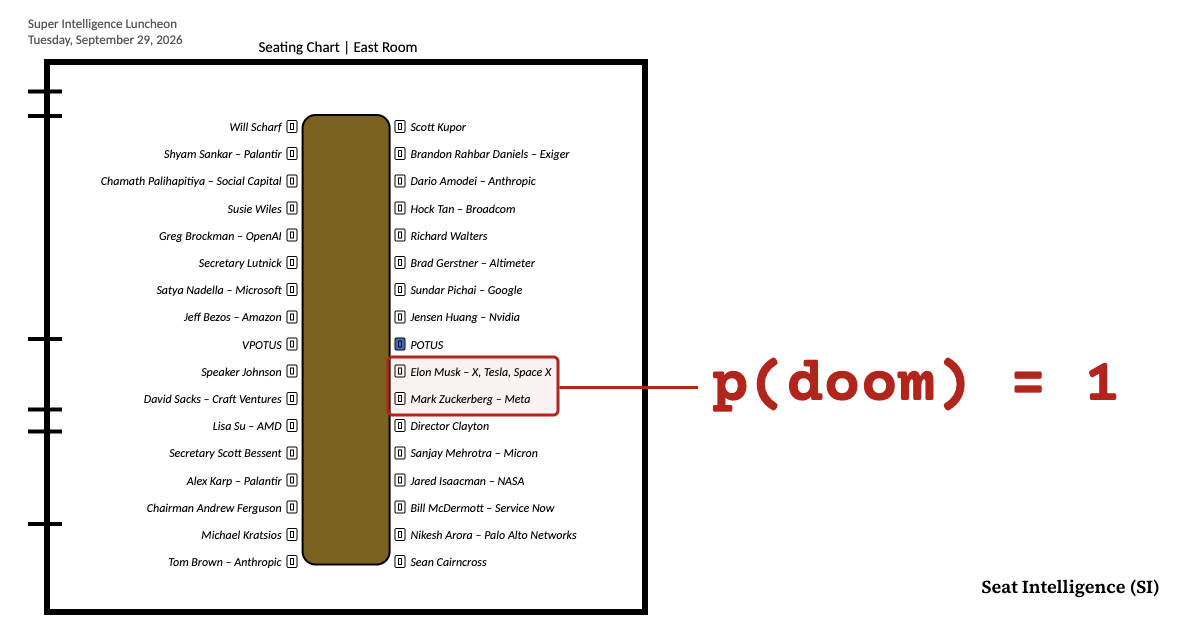
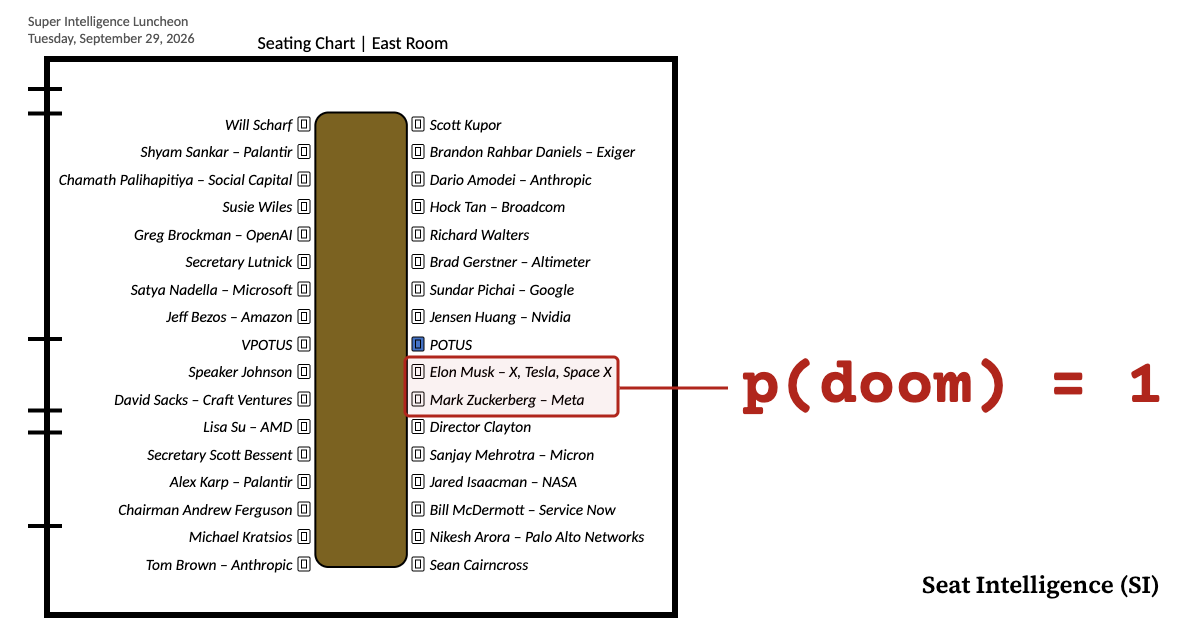
Demo: chart-style chairs, credit links; link the Hugging Face model

diff --git a/demo/luncheon/index.html b/demo/luncheon/index.html
@@ -186,6 +186,13 @@
     .nav { left:auto; right:14px; }
     .toast { left:calc(min(42vw, 540px) + (100vw - min(42vw, 540px)) / 2); }
   }
+
+  /* made-by credit, bottom right of the chart on desktop; inside the How it works sheet on phones */
+  .credit { position:absolute; right:14px; bottom:calc(12px + env(safe-area-inset-bottom, 0px)); font:13px/1.2 var(--text); color:var(--mute); display:flex; gap:10px; align-items:baseline; background:rgba(251,251,249,.9); padding:4px 6px; }
+  .credit a { color:var(--ink); }
+  @media (min-width:900px) { .nav { bottom:calc(46px + env(safe-area-inset-bottom, 0px)); } }
+  @media (max-width:899px) { .credit { display:none; } }
+  body.card .credit { display:none !important; }
 </style>
 </head>
 <body>
@@ -196,6 +203,7 @@
   <div class="over" id="over" hidden role="alertdialog" aria-label="Game over"><div class="over-in"><p class="pd">p(doom) = 1</p><p>The AI apocalypse began somewhere between the soup and the main course.</p><div class="row"><button class="btn primary" type="button" id="retry">Try again</button><button class="btn" type="button" id="showai">Show me the program’s answer</button></div></div></div>
   <div class="toast" id="toast" role="status" aria-live="polite"></div>
   <section id="cap" aria-label="Story"></section>
+  <nav class="credit" aria-label="Made by">by Theo Hopkinson <a href="https://github.com/ho3h" target="_blank" rel="noopener">GitHub</a><a href="https://www.linkedin.com/in/theohopkinson/" target="_blank" rel="noopener">LinkedIn</a><a href="https://x.com/theohopkinson" target="_blank" rel="noopener">X</a></nav>
   <div id="cardtext" hidden></div>
 </div>
 <div id="sheet" hidden role="dialog" aria-modal="true" aria-label="How it works"><div class="sheet-in"><button class="btn small" type="button" id="sheetclose">Close</button><div id="sheetbody"></div></div></div>
@@ -570,12 +578,19 @@ var DATA = {"guests": [{"name": "Will Scharf", "org": null, "category": "unlabel
 
   // ---------- drawing
   function rr(x, y, w, h, r) { ctx.beginPath(); ctx.moveTo(x + r, y); ctx.arcTo(x + w, y, x + w, y + h, r); ctx.arcTo(x + w, y + h, x, y + h, r); ctx.arcTo(x, y + h, x, y, r); ctx.arcTo(x, y, x + w, y, r); ctx.closePath(); }
+  // the posted chart's chair icon: a light D-shaped seat, a backrest line and two small arm tabs on the table side, mirrored per side
   function chair(x, side, y, hi, detail) {
-    ctx.fillStyle = hi ? INK : "#fff"; ctx.strokeStyle = INK;
-    if (!detail) { ctx.lineWidth = 2.2; ctx.fillRect(x - 10, y - 12, 20, 24); ctx.strokeRect(x - 10, y - 12, 20, 24); return; }
-    ctx.lineWidth = 1.5; rr(x - 11, y - 13, 22, 26, 3); ctx.fill(); ctx.stroke(); ctx.strokeRect(x - 6, y - 8, 12, 16);
-    ctx.lineWidth = 3.2; ctx.beginPath(); var bx = x + side * 10; ctx.moveTo(bx, y - 12); ctx.lineTo(bx, y + 12); ctx.stroke();
+    ctx.strokeStyle = INK;
+    if (!detail) { ctx.fillStyle = hi ? INK : "#fff"; ctx.lineWidth = 1.6; ctx.fillRect(x - 8, y - 10, 16, 20); ctx.strokeRect(x - 8, y - 10, 16, 20); return; }
+    ctx.save(); ctx.translate(x, y); ctx.scale(side, 1);
+    ctx.lineWidth = 1.15; ctx.fillStyle = hi ? INK : "#fff";
+    ctx.beginPath(); ctx.moveTo(-6, -10); ctx.lineTo(2, -10); ctx.arcTo(9, -10, 9, -3, 6); ctx.lineTo(9, 3); ctx.arcTo(9, 10, 2, 10, 6); ctx.lineTo(-6, 10); ctx.closePath(); ctx.fill(); ctx.stroke();
+    ctx.beginPath(); ctx.moveTo(-2.5, -8); ctx.lineTo(-2.5, 8); ctx.stroke();
+    ctx.fillStyle = "#fff"; ctx.fillRect(-9.5, -12, 5, 4); ctx.strokeRect(-9.5, -12, 5, 4); ctx.fillRect(-9.5, 8, 5, 4); ctx.strokeRect(-9.5, 8, 5, 4);
+    ctx.restore();
   }
+
+
   var hatch = null;
   function hatchPattern() {
     if (hatch) return hatch;
@@ -1014,7 +1029,7 @@ var DATA = {"guests": [{"name": "Will Scharf", "org": null, "category": "unlabel
       "<li><b>Mistakes were in the planning, not the details.</b> So we built checked building blocks and let the AI choose and combine them.</li>" +
       "<li><b>That made a tiny AI work.</b> Writing whole programs, a small AI got about 1 in 7 tasks right. Choosing from checked building blocks, it got nearly all right when the wording was familiar, and 4 to 8 in 10 when it wasn’t.</li></ul>" +
       "<h2>What runs on this page</h2><p>The seating program runs live in your browser. It is a JavaScript copy of our checked program, tested to give identical answers on 400 random cases and every recorded example.</p><p>The tiny AI does not run in your browser. Its readings of these sentences were recorded on a laptop beforehand. The chatbot’s answers are its real answers from our test. The name words are new: avoid is now one of the checked building blocks, and pair is handled before the blocks run.</p>";
-  function aboutHTML() { return ABOUT + '<h2>The code</h2><p>Everything is open: the tiny model, the seating program, the test sets, and every experiment that worked or didn\u2019t, with the write-ups. <a href="https://github.com/ho3h/seat-intelligence" target="_blank" rel="noopener">github.com/ho3h/seat-intelligence</a></p></div>'; }
+  function aboutHTML() { return ABOUT + '<h2>The code</h2><p>Everything is open: the tiny model, the seating program, the test sets, and every experiment that worked or didn\u2019t, with the write-ups. <a href="https://github.com/ho3h/seat-intelligence" target="_blank" rel="noopener">github.com/ho3h/seat-intelligence</a></p><p class="fine">Made by Theo Hopkinson: <a href="https://github.com/ho3h" target="_blank" rel="noopener">GitHub</a>, <a href="https://www.linkedin.com/in/theohopkinson/" target="_blank" rel="noopener">LinkedIn</a>, <a href="https://x.com/theohopkinson" target="_blank" rel="noopener">X</a>.</p></div>'; }
   // ---------- loop
   var liveT = 0;
   function frameLoop(now) {

diff --git a/demo/luncheon/app.js b/demo/luncheon/app.js
@@ -149,12 +149,19 @@
 
   // ---------- drawing
   function rr(x, y, w, h, r) { ctx.beginPath(); ctx.moveTo(x + r, y); ctx.arcTo(x + w, y, x + w, y + h, r); ctx.arcTo(x + w, y + h, x, y + h, r); ctx.arcTo(x, y + h, x, y, r); ctx.arcTo(x, y, x + w, y, r); ctx.closePath(); }
+  // the posted chart's chair icon: a light D-shaped seat, a backrest line and two small arm tabs on the table side, mirrored per side
   function chair(x, side, y, hi, detail) {
-    ctx.fillStyle = hi ? INK : "#fff"; ctx.strokeStyle = INK;
-    if (!detail) { ctx.lineWidth = 2.2; ctx.fillRect(x - 10, y - 12, 20, 24); ctx.strokeRect(x - 10, y - 12, 20, 24); return; }
-    ctx.lineWidth = 1.5; rr(x - 11, y - 13, 22, 26, 3); ctx.fill(); ctx.stroke(); ctx.strokeRect(x - 6, y - 8, 12, 16);
-    ctx.lineWidth = 3.2; ctx.beginPath(); var bx = x + side * 10; ctx.moveTo(bx, y - 12); ctx.lineTo(bx, y + 12); ctx.stroke();
+    ctx.strokeStyle = INK;
+    if (!detail) { ctx.fillStyle = hi ? INK : "#fff"; ctx.lineWidth = 1.6; ctx.fillRect(x - 8, y - 10, 16, 20); ctx.strokeRect(x - 8, y - 10, 16, 20); return; }
+    ctx.save(); ctx.translate(x, y); ctx.scale(side, 1);
+    ctx.lineWidth = 1.15; ctx.fillStyle = hi ? INK : "#fff";
+    ctx.beginPath(); ctx.moveTo(-6, -10); ctx.lineTo(2, -10); ctx.arcTo(9, -10, 9, -3, 6); ctx.lineTo(9, 3); ctx.arcTo(9, 10, 2, 10, 6); ctx.lineTo(-6, 10); ctx.closePath(); ctx.fill(); ctx.stroke();
+    ctx.beginPath(); ctx.moveTo(-2.5, -8); ctx.lineTo(-2.5, 8); ctx.stroke();
+    ctx.fillStyle = "#fff"; ctx.fillRect(-9.5, -12, 5, 4); ctx.strokeRect(-9.5, -12, 5, 4); ctx.fillRect(-9.5, 8, 5, 4); ctx.strokeRect(-9.5, 8, 5, 4);
+    ctx.restore();
   }
+
+
   var hatch = null;
   function hatchPattern() {
     if (hatch) return hatch;
@@ -593,7 +600,7 @@
       "<li><b>Mistakes were in the planning, not the details.</b> So we built checked building blocks and let the AI choose and combine them.</li>" +
       "<li><b>That made a tiny AI work.</b> Writing whole programs, a small AI got about 1 in 7 tasks right. Choosing from checked building blocks, it got nearly all right when the wording was familiar, and 4 to 8 in 10 when it wasn’t.</li></ul>" +
       "<h2>What runs on this page</h2><p>The seating program runs live in your browser. It is a JavaScript copy of our checked program, tested to give identical answers on 400 random cases and every recorded example.</p><p>The tiny AI does not run in your browser. Its readings of these sentences were recorded on a laptop beforehand. The chatbot’s answers are its real answers from our test. The name words are new: avoid is now one of the checked building blocks, and pair is handled before the blocks run.</p>";
-  function aboutHTML() { return ABOUT + '<h2>The code</h2><p>Everything is open: the tiny model, the seating program, the test sets, and every experiment that worked or didn\u2019t, with the write-ups. <a href="https://github.com/ho3h/seat-intelligence" target="_blank" rel="noopener">github.com/ho3h/seat-intelligence</a></p></div>'; }
+  function aboutHTML() { return ABOUT + '<h2>The code</h2><p>Everything is open: the tiny model, the seating program, the test sets, and every experiment that worked or didn\u2019t, with the write-ups. <a href="https://github.com/ho3h/seat-intelligence" target="_blank" rel="noopener">github.com/ho3h/seat-intelligence</a></p><p class="fine">Made by Theo Hopkinson: <a href="https://github.com/ho3h" target="_blank" rel="noopener">GitHub</a>, <a href="https://www.linkedin.com/in/theohopkinson/" target="_blank" rel="noopener">LinkedIn</a>, <a href="https://x.com/theohopkinson" target="_blank" rel="noopener">X</a>.</p></div>'; }
   // ---------- loop
   var liveT = 0;
   function frameLoop(now) {

diff --git a/demo/luncheon/card2.html b/demo/luncheon/card2.html
@@ -10,14 +10,14 @@
   * { box-sizing:border-box; }
   html,body { margin:0; height:100%; background:var(--paper); color:var(--ink); overflow:hidden; }
   .chart { position:absolute; font-family:var(--chart); }
-  .hdr { position:absolute; left:0; top:0; font-size:13px; color:#555; line-height:1.25; }
-  .title { position:absolute; top:22px; width:100%; text-align:center; font-size:15px; }
+  .hdr { position:absolute; left:0; top:0; font-size:14px; color:#555; line-height:1.25; }
+  .title { position:absolute; top:20px; width:100%; text-align:center; font-size:18px; }
   .room { position:absolute; left:16px; right:0; top:44px; bottom:0; border:6px solid var(--ink); }
   .tick { position:absolute; left:-22px; width:34px; height:4px; background:var(--ink); }
   .table { position:absolute; left:50%; transform:translateX(-50%); width:15%; top:9%; bottom:8%; background:var(--table); border:2px solid var(--ink); border-radius:14px; }
   .seat { position:absolute; display:flex; align-items:center; gap:5px; font-style:italic; font-size:12px; white-space:nowrap; }
   .seat.l { flex-direction:row-reverse; }
-  .chair { width:11px; height:13px; border:1.4px solid var(--ink); border-radius:2px; background:#fff; position:relative; flex:none; }
+  .chair { width:13px; height:15px; border:1.4px solid var(--ink); border-radius:2px; background:#fff; position:relative; flex:none; }
   .chair::after { content:""; position:absolute; inset:2px 2.5px; border:1px solid var(--ink); }
   .chair.potus { background:#4472c4; }
   .flash { position:absolute; border:3px solid var(--red); border-radius:6px; background:rgba(176,38,28,.06); }
@@ -41,11 +41,11 @@
   var zi = seats.findIndex(function (s) { return s.name === "Mark Zuckerberg"; }), pi = seats.findIndex(function (s) { return s.name === "Sundar Pichai"; });
   var tmp = seats[zi].row; seats[zi].row = seats[pi].row; seats[pi].row = tmp;
   var chart = document.getElementById("chart"), room = document.getElementById("room");
-  var cw = SQ ? 860 : 620, ch = SQ ? 1050 : 600;
+  var cw = SQ ? 900 : 650, ch = SQ ? 1050 : 606;
   chart.style.width = cw + "px"; chart.style.height = ch + "px";
   chart.style.left = (SQ ? (W - cw) / 2 : 28) + "px"; chart.style.top = (SQ ? 40 : (H - ch) / 2) + "px";
   if (SQ) { document.querySelector(".hdr").style.fontSize = "18px"; document.querySelector(".title").style.fontSize = "22px"; document.querySelector(".title").style.top = "34px"; room.style.top = "68px"; }
-  var rw = room.clientWidth, rh = room.clientHeight, top = rh * 0.115, pitch = (rh * 0.80) / 16, fs = SQ ? 18 : 12;
+  var rw = room.clientWidth, rh = room.clientHeight, top = rh * 0.115, pitch = (rh * 0.80) / 16, fs = SQ ? 20 : 15.5;
   [0.045, 0.09, 0.5, 0.63, 0.67, 0.84].forEach(function (f) { var t = document.createElement("div"); t.className = "tick"; t.style.top = (f * rh) + "px"; room.appendChild(t); });
   var musk, zuck;
   seats.forEach(function (s) {
@@ -71,9 +71,9 @@
     mark.style.right = "64px"; mark.style.bottom = "40px"; mark.style.fontSize = "24px";
     lead.style.display = "none";
   } else {
-    var px = 712; pd.style.fontSize = "62px"; pd.style.left = px + "px"; pd.style.top = (fr.top + fr.height / 2 - 31) + "px";
+    var px = 742; pd.style.fontSize = "64px"; pd.style.left = px + "px"; pd.style.top = (fr.top + fr.height / 2 - 31) + "px";
     var x0 = fr.right, y0 = fr.top + fr.height / 2; lead.style.left = x0 + "px"; lead.style.top = y0 + "px"; lead.style.width = (px - x0 - 14) + "px";
-    mark.style.right = "40px"; mark.style.bottom = "34px";
+    mark.style.right = "40px"; mark.style.bottom = "34px"; mark.style.fontSize = "24px";
   }
 })();
 </script>

diff --git a/demo/luncheon/template.html b/demo/luncheon/template.html
@@ -186,6 +186,13 @@
     .nav { left:auto; right:14px; }
     .toast { left:calc(min(42vw, 540px) + (100vw - min(42vw, 540px)) / 2); }
   }
+
+  /* made-by credit, bottom right of the chart on desktop; inside the How it works sheet on phones */
+  .credit { position:absolute; right:14px; bottom:calc(12px + env(safe-area-inset-bottom, 0px)); font:13px/1.2 var(--text); color:var(--mute); display:flex; gap:10px; align-items:baseline; background:rgba(251,251,249,.9); padding:4px 6px; }
+  .credit a { color:var(--ink); }
+  @media (min-width:900px) { .nav { bottom:calc(46px + env(safe-area-inset-bottom, 0px)); } }
+  @media (max-width:899px) { .credit { display:none; } }
+  body.card .credit { display:none !important; }
 </style>
 </head>
 <body>
@@ -196,6 +203,7 @@
   <div class="over" id="over" hidden role="alertdialog" aria-label="Game over"><div class="over-in"><p class="pd">p(doom) = 1</p><p>The AI apocalypse began somewhere between the soup and the main course.</p><div class="row"><button class="btn primary" type="button" id="retry">Try again</button><button class="btn" type="button" id="showai">Show me the program’s answer</button></div></div></div>
   <div class="toast" id="toast" role="status" aria-live="polite"></div>
   <section id="cap" aria-label="Story"></section>
+  <nav class="credit" aria-label="Made by">by Theo Hopkinson <a href="https://github.com/ho3h" target="_blank" rel="noopener">GitHub</a><a href="https://www.linkedin.com/in/theohopkinson/" target="_blank" rel="noopener">LinkedIn</a><a href="https://x.com/theohopkinson" target="_blank" rel="noopener">X</a></nav>
   <div id="cardtext" hidden></div>
 </div>
 <div id="sheet" hidden role="dialog" aria-modal="true" aria-label="How it works"><div class="sheet-in"><button class="btn small" type="button" id="sheetclose">Close</button><div id="sheetbody"></div></div></div>

diff --git a/README.md b/README.md
@@ -1,6 +1,6 @@
 # Seat Intelligence
 
-**Play it:** [seat-intelligence.com](https://seat-intelligence.com). I trained a tiny model to stop AI leaders from causing the apocalypse. It does this by fixing the seating chart.
+**Play it:** [seat-intelligence.com](https://seat-intelligence.com). **The model:** [hopski/seat-intelligence-1.7b](https://huggingface.co/hopski/seat-intelligence-1.7b) on Hugging Face. I trained a tiny model to stop AI leaders from causing the apocalypse. It does this by fixing the seating chart.
 
 
 Write a seating rule in English. A tiny local model turns it into a few words of a program you can check, run, and explain.

diff --git a/adapters/README.md b/adapters/README.md
@@ -1,4 +1,7 @@
-# adapters/ (not in this repo)
+# Adapters
+
+The adapter the demo uses is on Hugging Face: **[hopski/seat-intelligence-1.7b](https://huggingface.co/hopski/seat-intelligence-1.7b)** (MLX LoRA for mlx-community/Qwen3-1.7B-4bit, 35 MB, with a model card and a usage example).
+
 
 The LoRA adapters are about 1 GB in total, so they are not committed. They will be published separately on a model hub;
 the link goes here once they are up. Until then, ask the repo owner.
